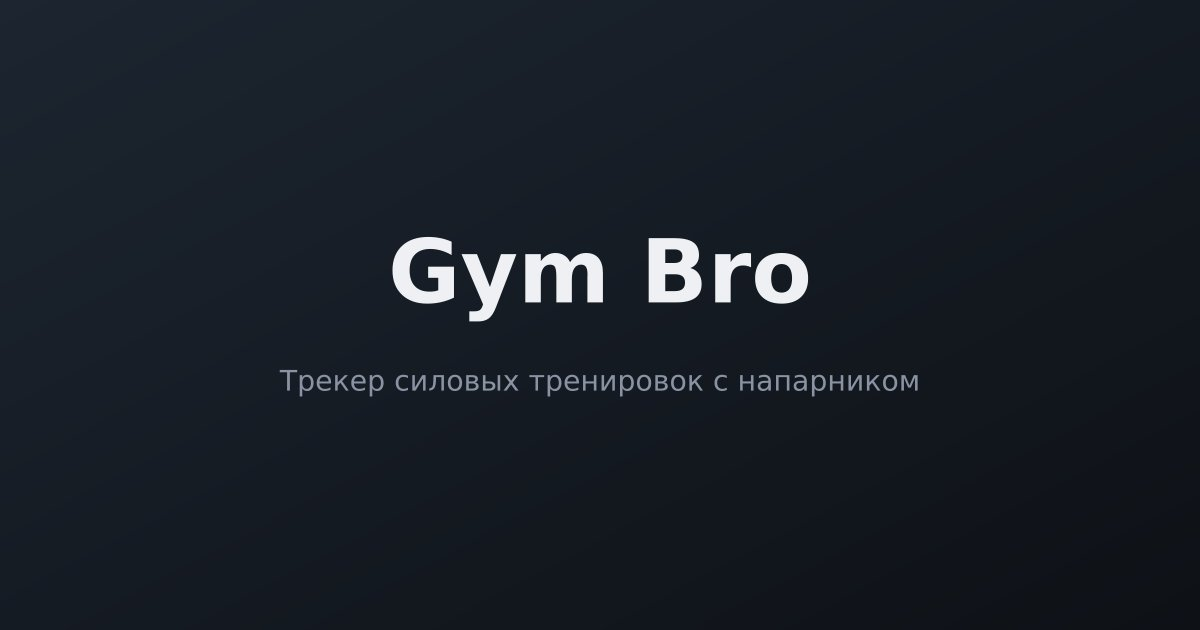
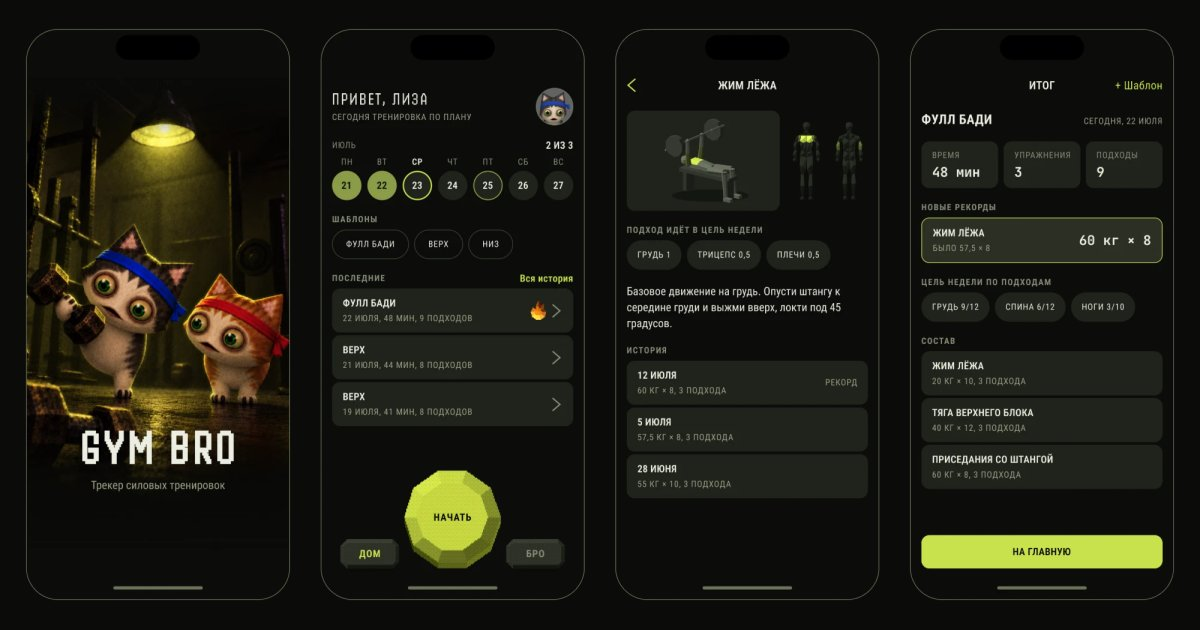
Gym Bro: put in the first five pictures
Cover, workout flow, first launch, set card and home states replace their
placeholders; the hero preview and link preview are cut from the cover.
The screens come on a transparent ground, so they sit on the page without
the frame other screenshots get, and the cover chips move to a row under
the picture where they no longer cover the last screen.

Claude-Session: https://claude.ai/code/session_016deTy2BBLLhJceshsmTCAT

diff --git a/cases/gym-bro.html b/cases/gym-bro.html
@@ -63,10 +63,8 @@
       <h1 class="case-hero__title">Gym Bro</h1>
       <p class="case-hero__subtitle">Трекер силовых тренировок для iPhone, где подход записывается в одно нажатие, а подруга видит, ходишь ли ты в зал.</p>
 
-      <!-- TODO картинка 1, обложка: четыре экрана в ряд.
-           Figma: Splash / Art, Home / Default, ActiveWorkout / ThirdExercise, Bro / Default. -->
-      <figure class="case-cover">
-        <img src="/src/assets/cases/gym-bro/cover.webp" alt="Экраны Gym Bro: заставка, главная, тренировка и вкладка бро" width="2000" height="1250" fetchpriority="high" />
+      <figure class="case-cover cover-cutout chips-below">
+        <img src="/src/assets/cases/gym-bro/cover.webp" alt="Экраны Gym Bro: заставка, главная, упражнение и итог тренировки" width="2000" height="1038" fetchpriority="high" />
         <span class="case-chips"><span class="tunnel__tag">Pet-проект</span><span class="tunnel__tag">Mobile</span></span>
       </figure>
     </section>
@@ -133,12 +131,12 @@
 
         <div class="short__refs">
           <figure>
-            <div class="short-ref"><span>Картинка 2. Тренировка от начала до итога</span></div>
-            <figcaption>Тренировка от начала до итога</figcaption>
+            <div class="short-ref short-ref--cutout short-ref--phone"><img src="/src/assets/cases/gym-bro/home-screen.webp" alt="Главная Gym Bro: неделя, шаблоны, последние тренировки и кнопка «Начать»" width="470" height="980" loading="lazy" decoding="async" /></div>
+            <figcaption>Главная</figcaption>
           </figure>
           <figure>
-            <div class="short-ref"><span>Картинка 6. Вкладка бро</span></div>
-            <figcaption>Неделя подруги на вкладке бро</figcaption>
+            <div class="short-ref short-ref--cutout"><img src="/src/assets/cases/gym-bro/set-card.webp" alt="Карточка упражнения с подходами" width="882" height="766" loading="lazy" decoding="async" /></div>
+            <figcaption>Подход записывается одним нажатием</figcaption>
           </figure>
         </div>
       </div>
@@ -158,10 +156,8 @@
         <p>В конце итог: длительность, подходы по группам мышц и новые рекорды.</p>
         <p>Подруга в это время видит у себя «тренируется сейчас», а потом мою тренировку в списке. На неё можно поставить реакцию.</p>
 
-        <!-- TODO картинка 2. Figma: Home / Default, Sheet / ExercisePicker / Selected,
-             ActiveWorkout / ThirdExercise, WorkoutSummary / Default. -->
-        <figure class="case-figure">
-          <div class="case-figure__frame"><span class="case-figure__label">Картинка 2. Главная → выбор упражнений → тренировка → итог</span></div>
+        <figure class="case-figure case-figure--cutout">
+          <img src="/src/assets/cases/gym-bro/workout-flow.webp" alt="Главная, выбор упражнений, экран тренировки и итог" width="2000" height="991" loading="lazy" decoding="async" />
           <figcaption>Тренировка от начала до итога.</figcaption>
         </figure>
 
@@ -227,9 +223,8 @@
         <p><strong>У Safari и у установленного приложения разные хранилища.</strong> Если войти по ссылке из письма, ссылка откроется в Safari, и человек окажется залогинен не в том приложении. Поэтому вход сделан кодом из 6 цифр: его вводишь там, где уже находишься.</p>
         <p><strong>Регистрация не стоит на пути к первому подходу.</strong> Сначала человек записывает тренировку анонимно, а почту привязывает уже после неё. Цель из PRD: от первого открытия до первого подхода меньше 90 секунд.</p>
 
-        <!-- TODO картинка 3. Figma: Splash / Art, Welcome / Install, Onboarding / Name, Home / Empty. -->
-        <figure class="case-figure">
-          <div class="case-figure__frame"><span class="case-figure__label">Картинка 3. Заставка → установка на домашний экран → имя → пустая главная</span></div>
+        <figure class="case-figure case-figure--cutout">
+          <img src="/src/assets/cases/gym-bro/first-launch.webp" alt="Заставка, инструкция по установке на домашний экран, ввод имени и пустая главная" width="2000" height="991" loading="lazy" decoding="async" />
           <figcaption>Первый запуск.</figcaption>
         </figure>
 
@@ -244,10 +239,8 @@
           <p>Пока открытый вопрос: поймут ли другие люди, что серые цифры это подсказка из прошлого раза, и что подход записан, только когда стоит галочка. Проверю на прототипе: дам пяти знакомым записать первый подход и посмотрю, где они споткнутся.</p>
         </div>
 
-        <!-- TODO картинка 4. Figma: карточка упражнения из ActiveWorkout / SetDone
-             или ActiveWorkout / Expanded. -->
-        <figure class="case-figure">
-          <div class="case-figure__frame"><span class="case-figure__label">Картинка 4. Карточка упражнения: первый подход с галочкой, остальные с серыми подставленными цифрами</span></div>
+        <figure class="case-figure case-figure--cutout">
+          <img class="case-figure__img--narrow" src="/src/assets/cases/gym-bro/set-card.webp" alt="Карточка жима лёжа: первый подход отмечен галочкой, у остальных серые цифры из прошлого раза" width="882" height="766" loading="lazy" decoding="async" />
           <figcaption>Подход в одно нажатие.</figcaption>
         </figure>
 
@@ -264,10 +257,8 @@
         <p>Календарь недели и последние тренировки стоят на своих местах всегда.</p>
         <p><strong>Гибкий график.</strong> Сначала план был набором конкретных дней. Но я сама хожу в разные дни, и тренировка в четверг вместо среды давала красный «пропуск», хотя норма недели была выполнена. Поэтому по умолчанию план стал числом: «3 раза в неделю». Дни выбираются на неделю вперёд, а пропуск считается по неделе.</p>
 
-        <!-- TODO картинка 5. Figma: Home / WorkoutInProgress, Home / TomorrowPlan,
-             Home / KickReceived, Home / Default. -->
-        <figure class="case-figure">
-          <div class="case-figure__frame"><span class="case-figure__label">Картинка 5. Идёт тренировка, завтра тренировка, пришёл пинок, обычный день</span></div>
+        <figure class="case-figure case-figure--cutout">
+          <img src="/src/assets/cases/gym-bro/home-states.webp" alt="Главная в четырёх ситуациях: идёт тренировка, завтра тренировка, пришёл пинок, обычный день" width="2000" height="1038" loading="lazy" decoding="async" />
           <figcaption>Главная в разных ситуациях.</figcaption>
         </figure>
 

diff --git a/index.html b/index.html
@@ -259,8 +259,8 @@
           </div>
           </article>
           <article class="tunnel__case tunnel__case--right">
-          <a class="tunnel__cover" href="/cases/gym-bro.html" tabindex="-1" aria-hidden="true">
-            <img src="/src/assets/cases/gym-bro/cover.webp" alt="" width="2000" height="1250" loading="lazy" decoding="async" />
+          <a class="tunnel__cover cover-cutout chips-below" href="/cases/gym-bro.html" tabindex="-1" aria-hidden="true">
+            <img src="/src/assets/cases/gym-bro/cover.webp" alt="" width="2000" height="1038" loading="lazy" decoding="async" />
             <span class="tunnel__tags case-chips"><span class="tunnel__tag">Pet-проект</span><span class="tunnel__tag">Mobile</span></span>
           </a>
           <div class="tunnel__text">

diff --git a/src/case.css b/src/case.css
@@ -441,6 +441,14 @@
 }
 /* A cover drawn on a transparent ground (the design system's) keeps it. */
 .case-cover.cover-cutout { box-shadow: none; }
+/* Screens exported on a transparent ground (Gym Bro) sit straight on the
+   night background: no frame, no lift. */
+.case-figure--cutout img,
+.short-ref--cutout img { box-shadow: none; }
+.short-ref--cutout { background: transparent; }
+.short-ref--phone img { max-width: 240px; margin: 0 auto; }
+/* A single small component reads better at its own size than stretched. */
+.case-figure img.case-figure__img--narrow { max-width: 440px; margin: 0 auto; }
 .case-figure figcaption {
   margin-top: var(--space-1);
   font-size: 13px;

diff --git a/src/style.css b/src/style.css
@@ -2088,3 +2088,13 @@ html.sheet-lock, html.sheet-lock body { overflow: hidden; }
   line-height: 1.4;
   color: #f7d9f5;
 }
+
+/* A cover whose screens run to its bottom edge (Gym Bro): the chips would
+   sit on the last screen, so they drop out of the corner to a row under
+   the picture instead. */
+.case-cover.chips-below,
+.tunnel__cover.chips-below { overflow: visible; }
+.chips-below .case-chips {
+  position: static;
+  margin-top: var(--space-2);
+}
